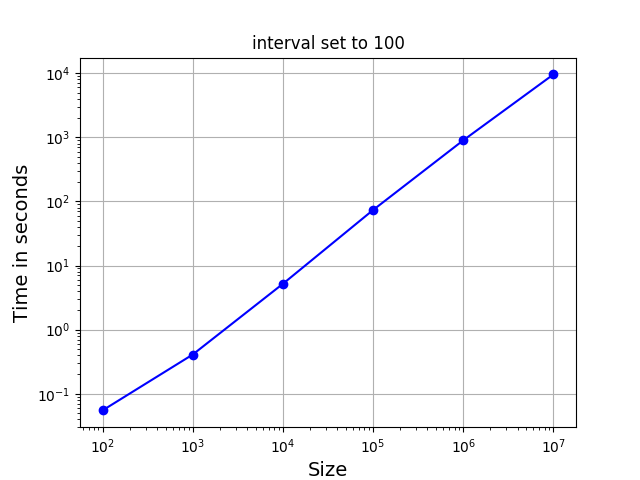
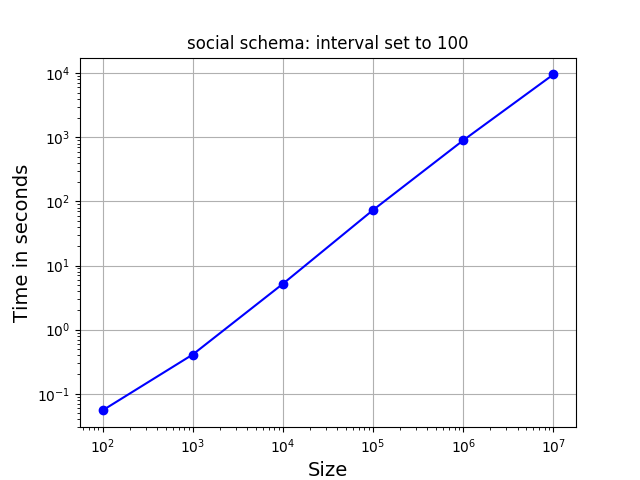
add name of schema in scalability plot

Changed region(s): [[0.2812, 0.0625, 0.75, 0.125]]

diff --git a/demo/scalability/plot_scal.py b/demo/scalability/plot_scal.py
@@ -43,7 +43,7 @@ plt.ylabel('Time in seconds', fontsize=14, color='black')
 plt.xscale("log", nonposx='clip')
 plt.yscale("log", nonposy='clip')
 plt.grid()
-plt.title(file_list[2]+" set to "+file_list[4])
+plt.title(file_list[5]+" schema: "+file_list[2]+" set to "+file_list[4])
 plt.savefig(file_list[2]+"_"+file_list[5]+".png")
 plt.clf()
 
